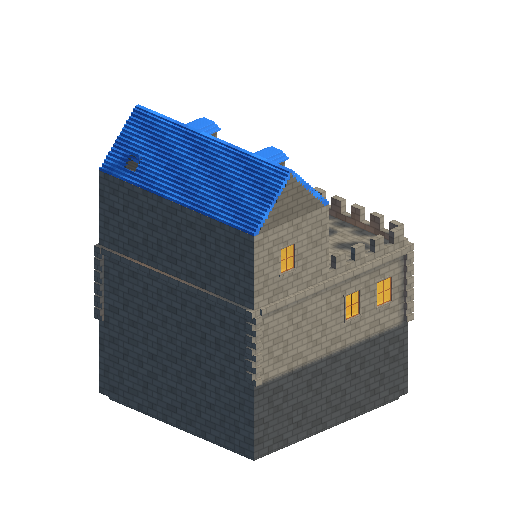
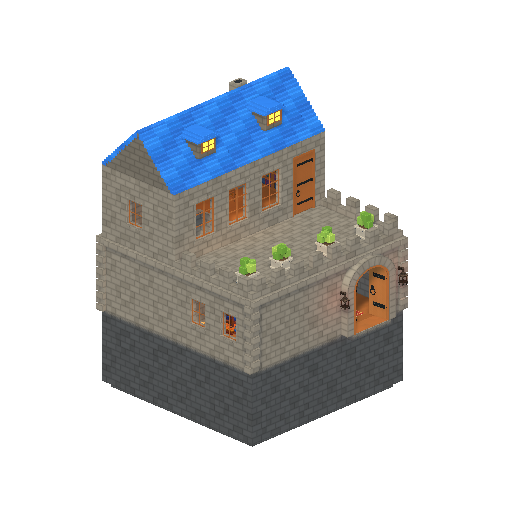
Fix z-fighting beneath arched castle doors

Changed region(s): [[0.1562, 0.125, 0.8125, 0.9062]]

diff --git a/test/unit/game/objects/architecture/door/door-placement.test.js b/test/unit/game/objects/architecture/door/door-placement.test.js
@@ -18,6 +18,34 @@ function Door(options) {
   return new SharedDoor(Placement.create(options));
 }
 
+it("separates both arched entrance threshold risers from the facade without lifting the floor", () => {
+  for (const style of [undefined, "pointed"]) {
+    const entity = new pc.Entity();
+    const threshold = new pc.Entity("Entrance masonry threshold.001");
+    const oak = new pc.Entity("Entrance oak threshold");
+    entity.addChild(threshold);
+    entity.addChild(oak);
+    entity.findComponents = () => [{ entity: threshold }, { entity: oak }];
+    Placement.create({
+      pc,
+      castlePosition: {
+        x: 0,
+        z: 0,
+        elevation: 2,
+      },
+      door: {
+        side: "SOUTH",
+        width: 2,
+        style,
+      },
+      bundledEntrance: true,
+      modelLibrary: { instantiate: () => entity },
+    });
+    assert.deepEqual(threshold.getLocalPosition(), new pc.Vec3(0, 0, -0.004));
+    assert.deepEqual(oak.getLocalPosition(), new pc.Vec3());
+  }
+});
+
 it("selects pointed working entrances while preserving the rounded default", () => {
   for (const [style, expected] of [["pointed", "pointed.glb"], [undefined, "rounded.glb"]]) {
     const result = Placement.create({

diff --git a/src/game/objects/architecture/door/DoorPlacement.js b/src/game/objects/architecture/door/DoorPlacement.js
@@ -84,6 +84,17 @@ export class DoorPlacement {
     const entranceUrl = door.style === "pointed" ? pointedEntranceUrl : roundedEntranceUrl;
     const modelUrl = bundledEntrance ? entranceUrl : placement && !placement.arched ? interiorDoorUrl : castleDoorsModelUrl;
     const entity = modelLibrary.instantiate(modelUrl);
+    if (bundledEntrance) {
+      // The threshold risers otherwise share the facade slab's front plane.
+      // Give the stone trim clearance without raising the walking surface.
+      for (const render of entity.findComponents("render")) {
+        if (render.entity.name.startsWith("Entrance masonry threshold")) {
+          const position = render.entity.getLocalPosition().clone();
+          position.z -= 0.004;
+          render.entity.setLocalPosition(position);
+        }
+      }
+    }
     if (bundledEntrance && masonryMaterials) {
       const stone = masonryMaterials.get("castleStoneMid");
       // Radial stone joints are authored in the arch mesh, rather than wall courses.
